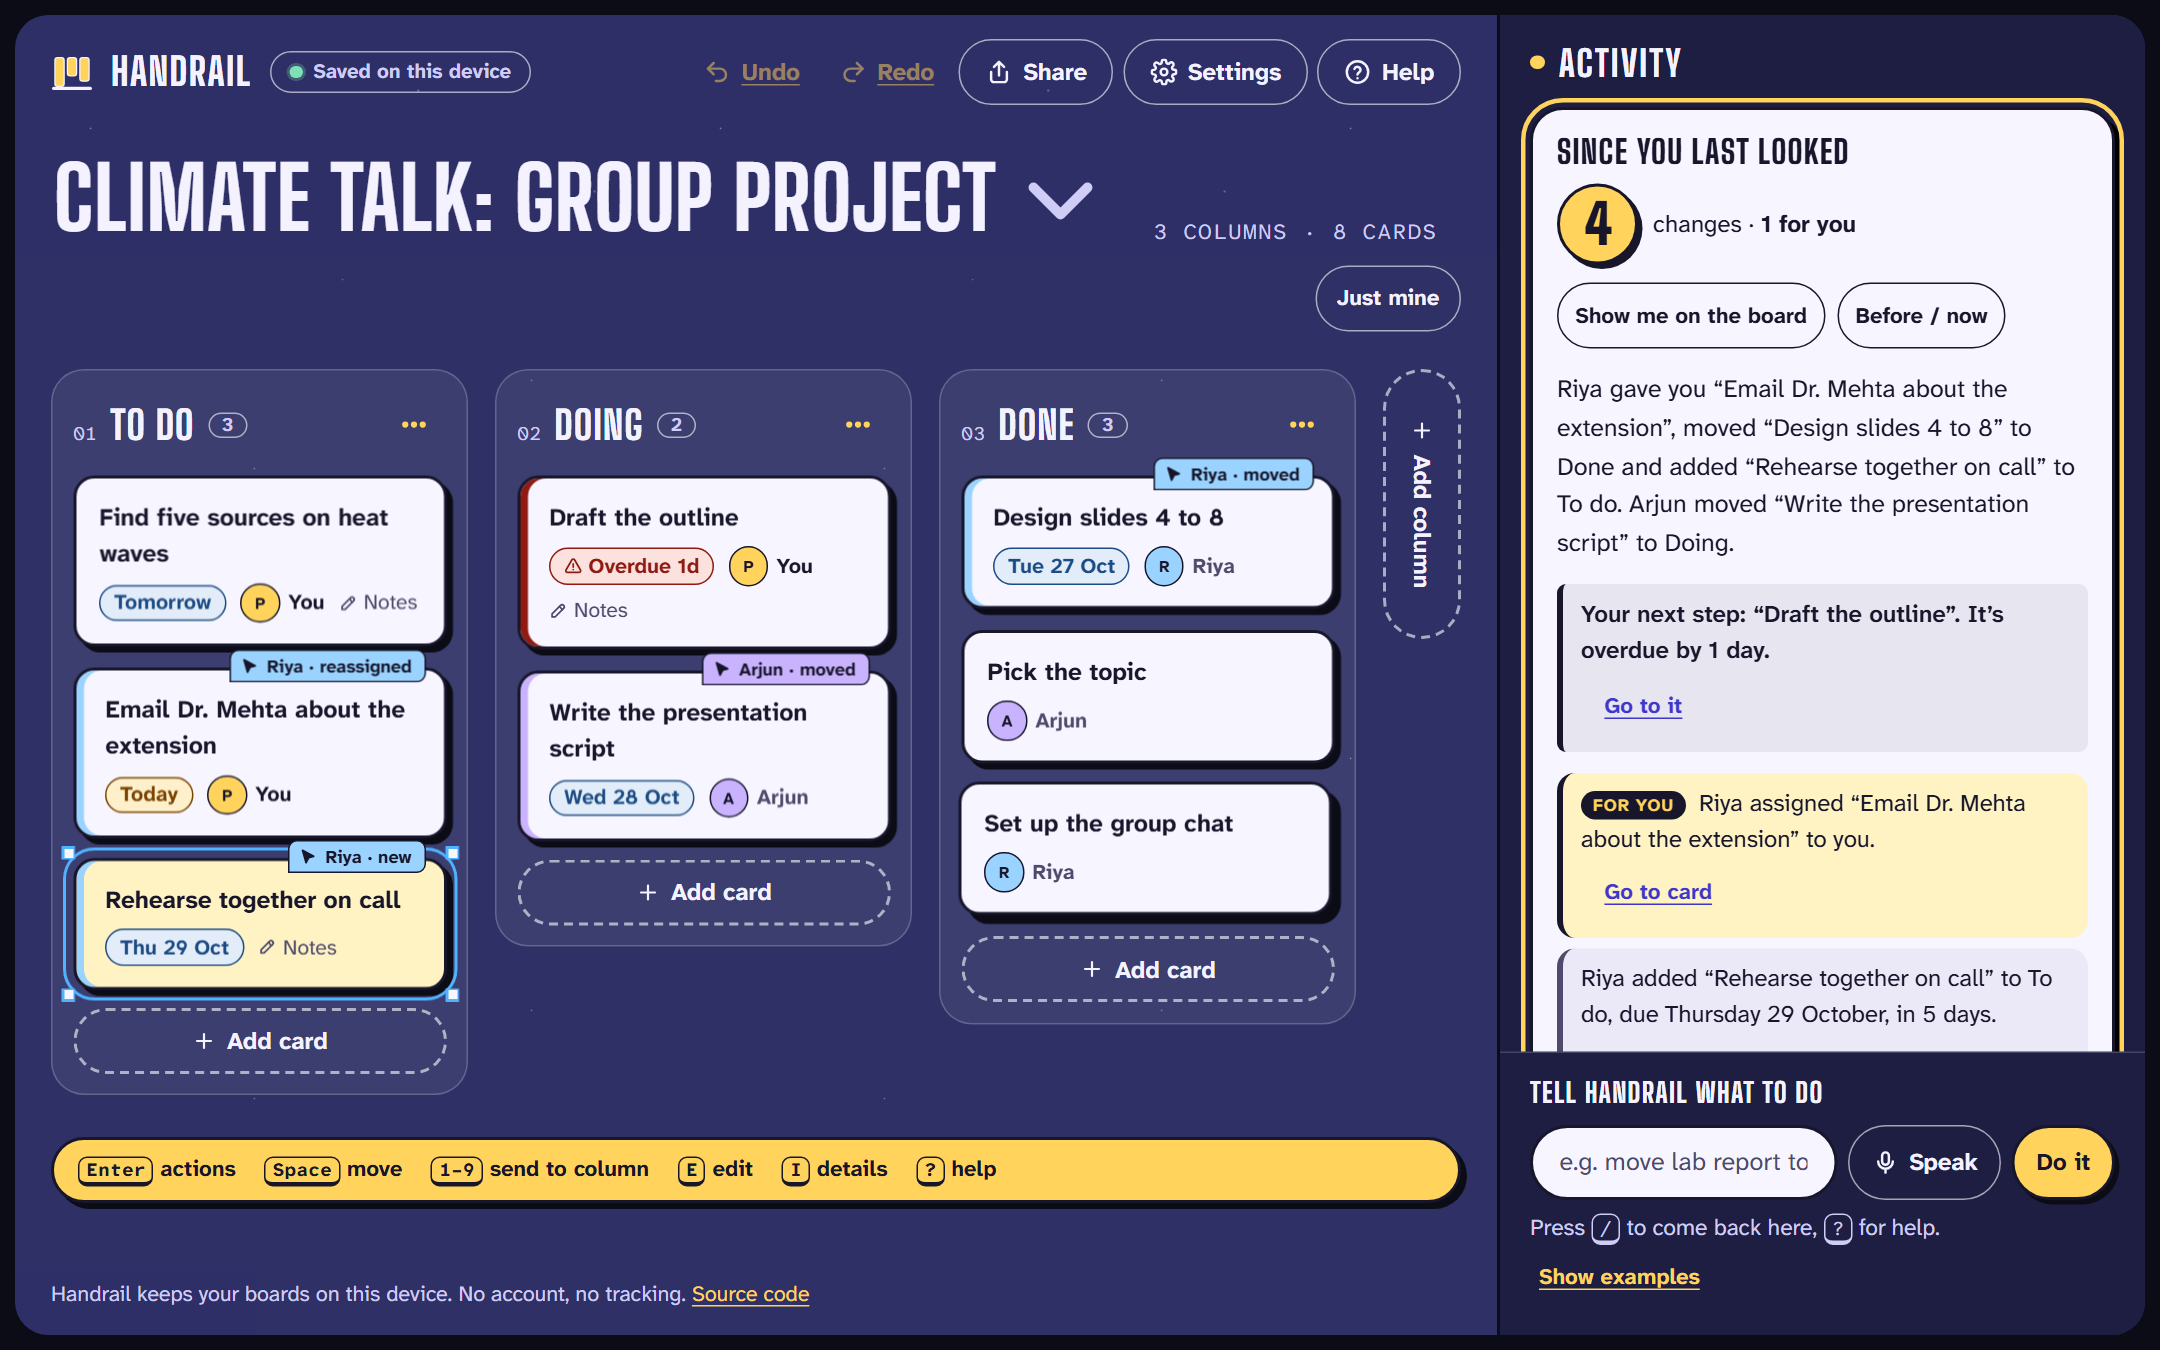
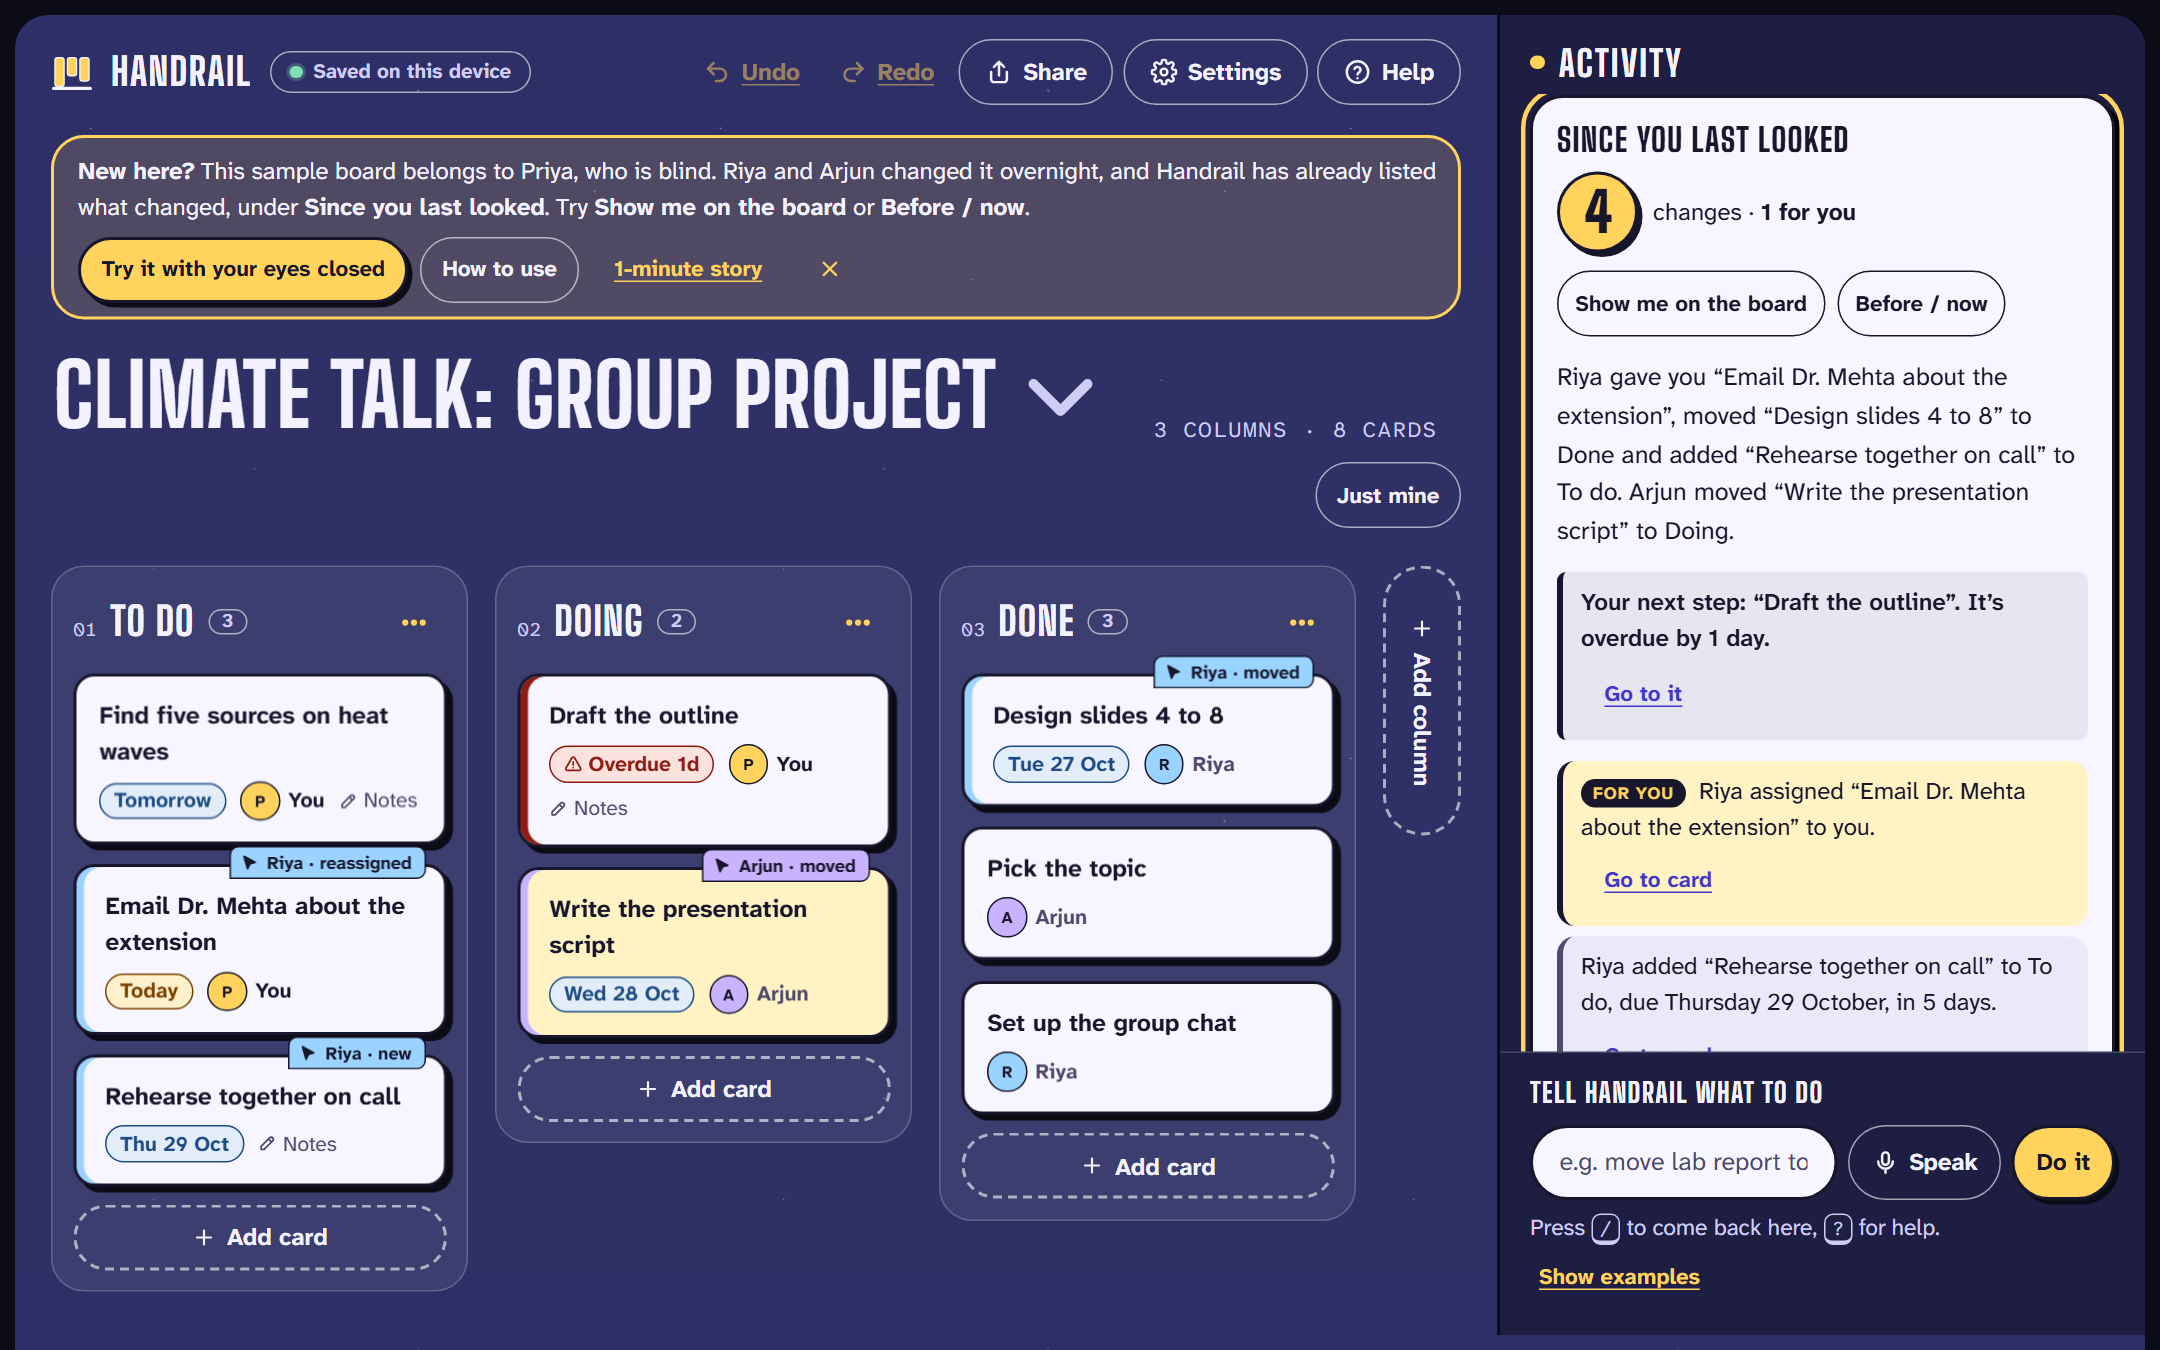
README screenshots: retaken from the live site as a first-time visitor sees it
The old ones were taken as a returning visitor, so they lacked the "New here?" line
and didn't match what people see when they open the link.

diff --git a/README.md b/README.md
@@ -10,7 +10,7 @@ Handrail is a project board for group work. When your teammates change things, i
 
 No account, no install, no server. It runs in the browser and keeps your boards on your device.
 
-![The board with the Activity panel open: "Since you last looked: 4 changes, 1 for you", a plain-sentence summary, the next step "Draft the outline", and changed cards tagged with who changed them](docs/changes.png)
+![Handrail on a first visit: a "New here?" line, the board with changed cards tagged with who changed them, and the Activity panel: "Since you last looked: 4 changes, 1 for you", a plain-sentence summary and the next step "Draft the outline"](docs/changes.png)
 
 ## Try it in one minute
 
@@ -61,7 +61,7 @@ The rest exists because the loop needs it: the merge lets two copies of a board 
 
 | Quick tour | Light theme | Phone |
 |---|---|---|
-| ![The quick tour, step 2 of 5, "See what changed", with the Since you last looked panel highlighted](docs/tour.png) | ![The board in the light theme with the dark Activity panel](docs/contrast.png) | ![The board on a phone: columns stacked, the command box docked at the bottom](docs/phone.png) |
+| ![The quick tour, step 2 of 5, "See what changed", with the Since you last looked panel highlighted](docs/tour.png) | ![The board in the light theme with the dark Activity panel](docs/contrast.png) | ![Handrail on a phone: the "New here?" line, columns stacked, an Activity button showing 4, and the command box docked at the bottom](docs/phone.png) |
 
 ## Works with Trello
 
